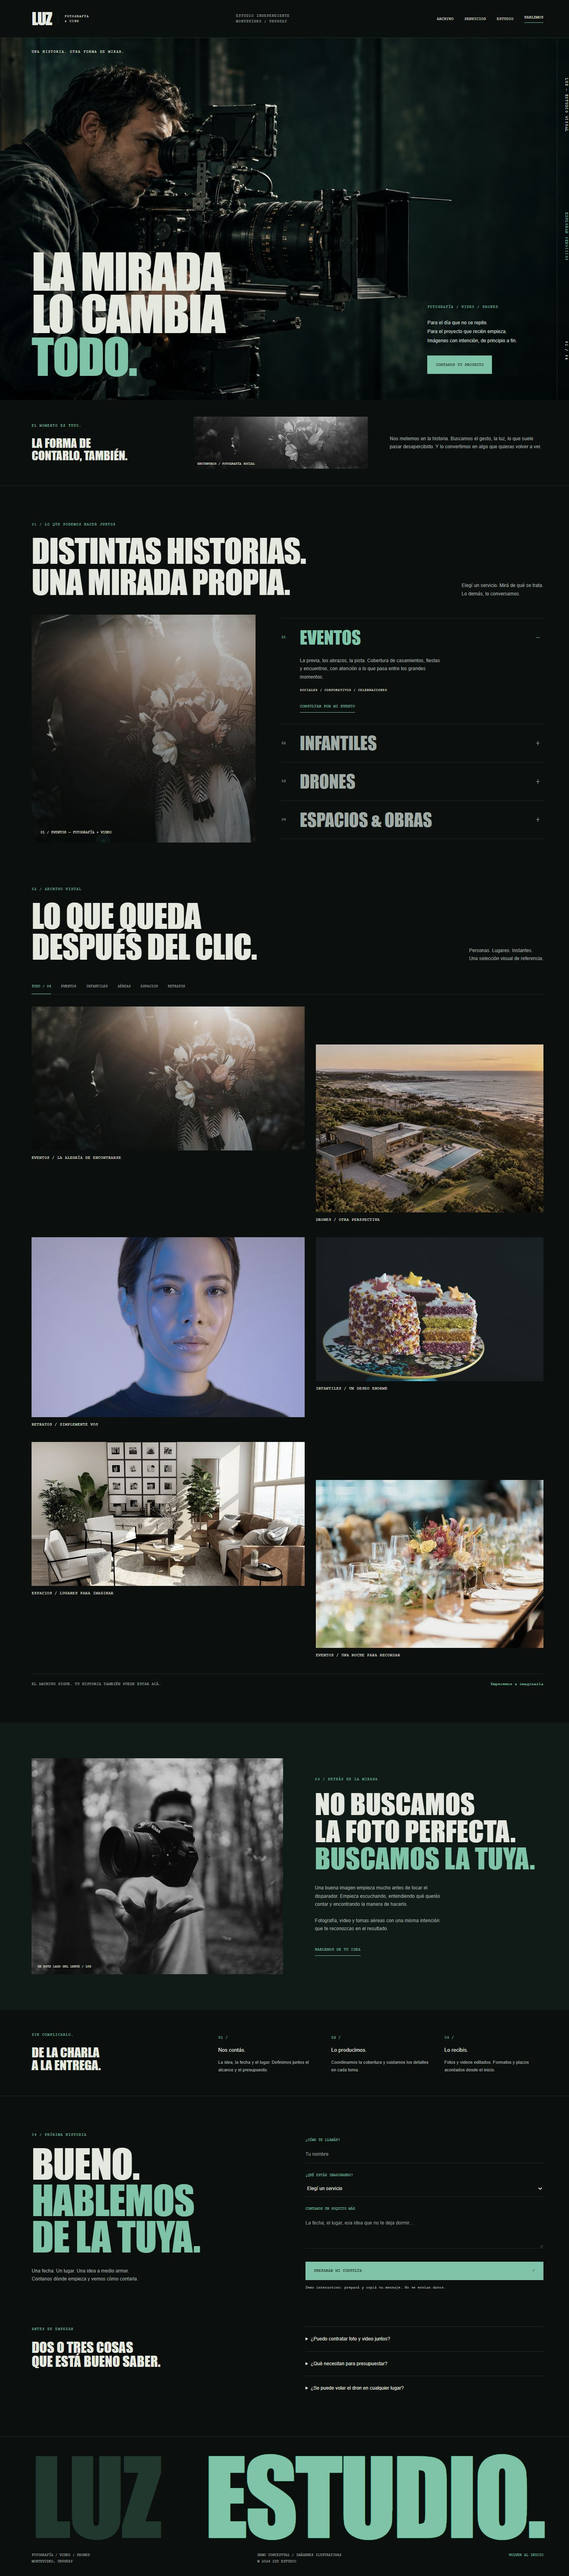
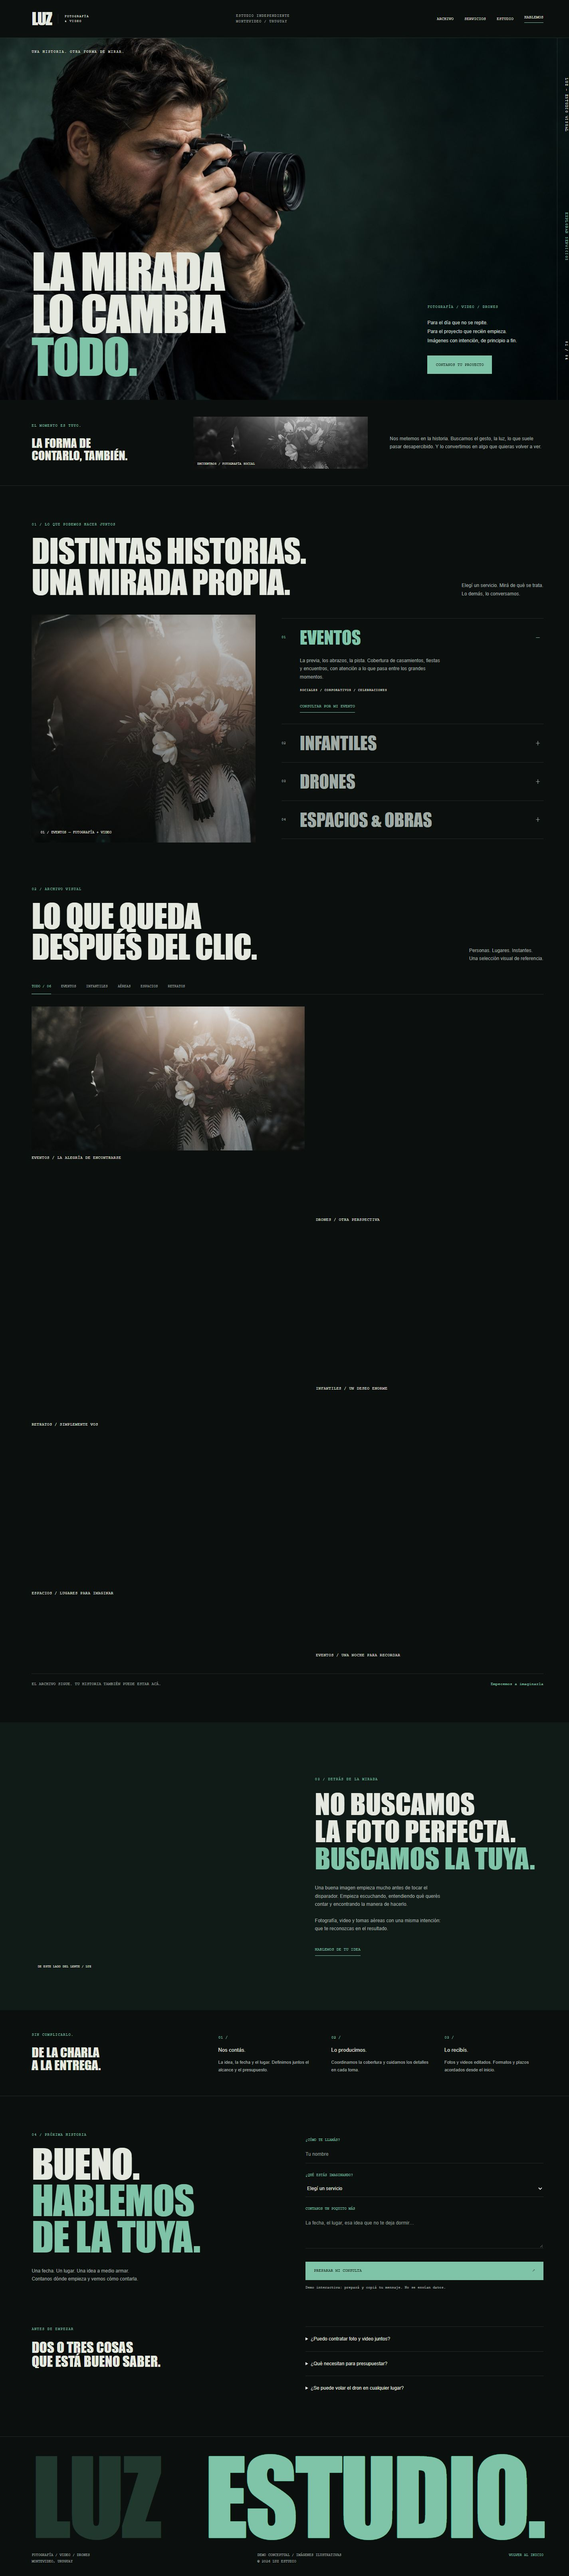
Corregir portada a fotógrafo con cámara de fotos

diff --git a/index.html b/index.html
@@ -1,13 +1,13 @@
 <!doctype html>
 <html lang="es-UY">
-<head><meta charset="UTF-8"><meta name="viewport" content="width=device-width, initial-scale=1"><meta name="description" content="Luz, estudio de fotografía y video. Eventos, infantiles, drones e inmobiliaria con una mirada propia."><meta name="theme-color" content="#0b100f"><title>LUZ / Fotografía & cine</title><link rel="stylesheet" href="styles.css"><script src="script.js" defer></script></head>
+<head><meta charset="UTF-8"><meta name="viewport" content="width=device-width, initial-scale=1"><meta name="description" content="Luz, estudio de fotografía y video. Eventos, infantiles, drones e inmobiliaria con una mirada propia."><meta name="theme-color" content="#0b100f"><title>LUZ / Fotografía & video</title><link rel="stylesheet" href="styles.css"><script src="script.js" defer></script></head>
 <body>
 <a class="skip" href="#contenido">Saltar al contenido</a>
 <div class="page-shell">
-<header class="header"><a class="brand" href="#inicio" aria-label="Luz, inicio">LUZ<span>FOTOGRAFÍA<br>& CINE</span></a><p class="header-note">ESTUDIO INDEPENDIENTE<br>MONTEVIDEO / URUGUAY</p><button class="menu-toggle" aria-expanded="false" aria-controls="navigation">Menú</button><nav id="navigation" aria-label="Navegación principal"><a href="#trabajos">Archivo</a><a href="#servicios">Servicios</a><a href="#estudio">Estudio</a><a class="nav-contact" href="#contacto">Hablemos</a></nav></header>
+<header class="header"><a class="brand" href="#inicio" aria-label="Luz, inicio">LUZ<span>FOTOGRAFÍA<br>& VIDEO</span></a><p class="header-note">ESTUDIO INDEPENDIENTE<br>MONTEVIDEO / URUGUAY</p><button class="menu-toggle" aria-expanded="false" aria-controls="navigation">Menú</button><nav id="navigation" aria-label="Navegación principal"><a href="#trabajos">Archivo</a><a href="#servicios">Servicios</a><a href="#estudio">Estudio</a><a class="nav-contact" href="#contacto">Hablemos</a></nav></header>
 <main id="contenido">
 <!-- La portada usa una fotografía creada para este encuadre. Los textos son HTML seleccionable. -->
-<section class="hero" id="inicio"><img class="hero-image" src="assets/cineasta.jpg" alt="Realizador trabajando con una cámara de cine, bajo luz verde y sombras profundas" fetchpriority="high"><p class="hero-eyebrow">UNA HISTORIA. OTRA FORMA DE MIRAR.</p><h1 class="hero-heading"><span>La mirada</span><span>lo cambia</span><span class="green">todo.</span></h1><div class="hero-copy"><p class="eyebrow">FOTOGRAFÍA / VIDEO / DRONES</p><p>Para el día que no se repite.<br>Para el proyecto que recién empieza.<br>Imágenes con intención, de principio a fin.</p><a class="button" href="#contacto">Contanos tu proyecto</a></div><div class="hero-rail"><span>LUZ — ESTUDIO VISUAL</span><a href="#servicios">EXPLORAR SERVICIOS</a><span>01 / 04</span></div></section>
+<section class="hero" id="inicio"><img class="hero-image" src="assets/fotografo.jpg" alt="Fotógrafo mirando por el visor de su cámara de fotos, bajo luz verde y sombras profundas" fetchpriority="high"><p class="hero-eyebrow">UNA HISTORIA. OTRA FORMA DE MIRAR.</p><h1 class="hero-heading"><span>La mirada</span><span>lo cambia</span><span class="green">todo.</span></h1><div class="hero-copy"><p class="eyebrow">FOTOGRAFÍA / VIDEO / DRONES</p><p>Para el día que no se repite.<br>Para el proyecto que recién empieza.<br>Imágenes con intención, de principio a fin.</p><a class="button" href="#contacto">Contanos tu proyecto</a></div><div class="hero-rail"><span>LUZ — ESTUDIO VISUAL</span><a href="#servicios">EXPLORAR SERVICIOS</a><span>01 / 04</span></div></section>
 <section class="intro section"><div><p class="eyebrow">EL MOMENTO ES TUYO.</p><h2 class="intro-title">La forma de<br>contarlo, también.</h2></div><figure class="intro-film"><img src="assets/eventos.jpg" alt="Detalle de una celebración de casamiento" loading="lazy"><figcaption>ENCUENTROS / FOTOGRAFÍA SOCIAL</figcaption></figure><p>Nos metemos en la historia. Buscamos el gesto, la luz, lo que suele pasar desapercibido. Y lo convertimos en algo que quieras volver a ver.</p></section>
 <section class="section services" id="servicios"><div class="section-heading"><div><p class="eyebrow">01 / LO QUE PODEMOS HACER JUNTOS</p><h2>Distintas historias.<br>Una mirada propia.</h2></div><p>Elegí un servicio. Mirá de qué se trata.<br>Lo demás, lo conversamos.</p></div>
 <!-- Índice accesible: cada botón cambia la fotografía y despliega su información. -->

diff --git a/assets/SOURCES.md b/assets/SOURCES.md
@@ -14,10 +14,14 @@ Consultá la licencia de Unsplash y reemplazá el material por fotografías prop
 
 ## Prompt de la imagen generada
 
-### Portada cinematográfica (cineasta.jpg)
+### Primera portada, reemplazada (cineasta.jpg)
 
 Generada con ImageGen integrado. Fotografía cinematográfica panorámica de un realizador adulto operando una cámara de cine. Sujeto dominante a la izquierda; fondo verde petróleo oscuro y espacio negativo a la derecha. Luz lateral, piel natural, color desaturado y grano sutil. Sin textos, marcas ni interfaz. Exportada a JPEG para servirla localmente. El archivo fuente PNG queda disponible en assets/cineasta.png.
 
 ### Vista aérea (drones.jpg)
 
 Generate one photorealistic professional drone photograph for a photography business portfolio. Wide landscape composition, high oblique aerial view looking down at an elegant contemporary house with swimming pool and surrounding coastal greenery in Uruguay at golden hour, blue Atlantic coastline visible. True aerial drone perspective, realistic architectural geometry, beautiful warm sunlight, photographic natural textures, no text, no watermark, no UI. This is illustrative demo portfolio material.
+
+### Portada corregida: fotógrafo (fotografo.jpg)
+
+Imagen generada con ImageGen integrado: retrato editorial panorámico de un fotógrafo adulto a la izquierda, mirando por el visor de una cámara de fotos mirrorless de mano con objetivo fotográfico normal. Luz lateral, fondo verde petróleo oscuro y espacio negativo a la derecha. Sin cámara de cine, rig, monitor, rieles ni trípode. Sin textos, marcas ni interfaz. Exportada a JPEG para la web. Imagen ilustrativa, no representa a una persona real del estudio.

diff --git a/design-qa.md b/design-qa.md
@@ -41,3 +41,7 @@ final result: passed
 - P3: reemplazar las imágenes ilustrativas por trabajos del negocio real cuando haya una marca definida.
 - WhatsApp permanece sin número hasta disponer de un contacto autorizado.
 - Se mantiene el mecanismo de copia de mensaje verificado en la versión anterior; no se sobrescribe el portapapeles del usuario durante esta revisión.
+
+## Corrección posterior: fotógrafo, no camarógrafo
+
+La portada ahora usa assets/fotografo.jpg: fotógrafo con cámara de fotos de mano, sin equipo de cine. Se corrigieron título, marca y texto alternativo a fotografía y video. Portada inspeccionada en navegador a 1440 × 1000; carga verificada y sin desborde a 390 × 844. Capturas actualizadas. El resto de los componentes y sus interacciones no cambió.
